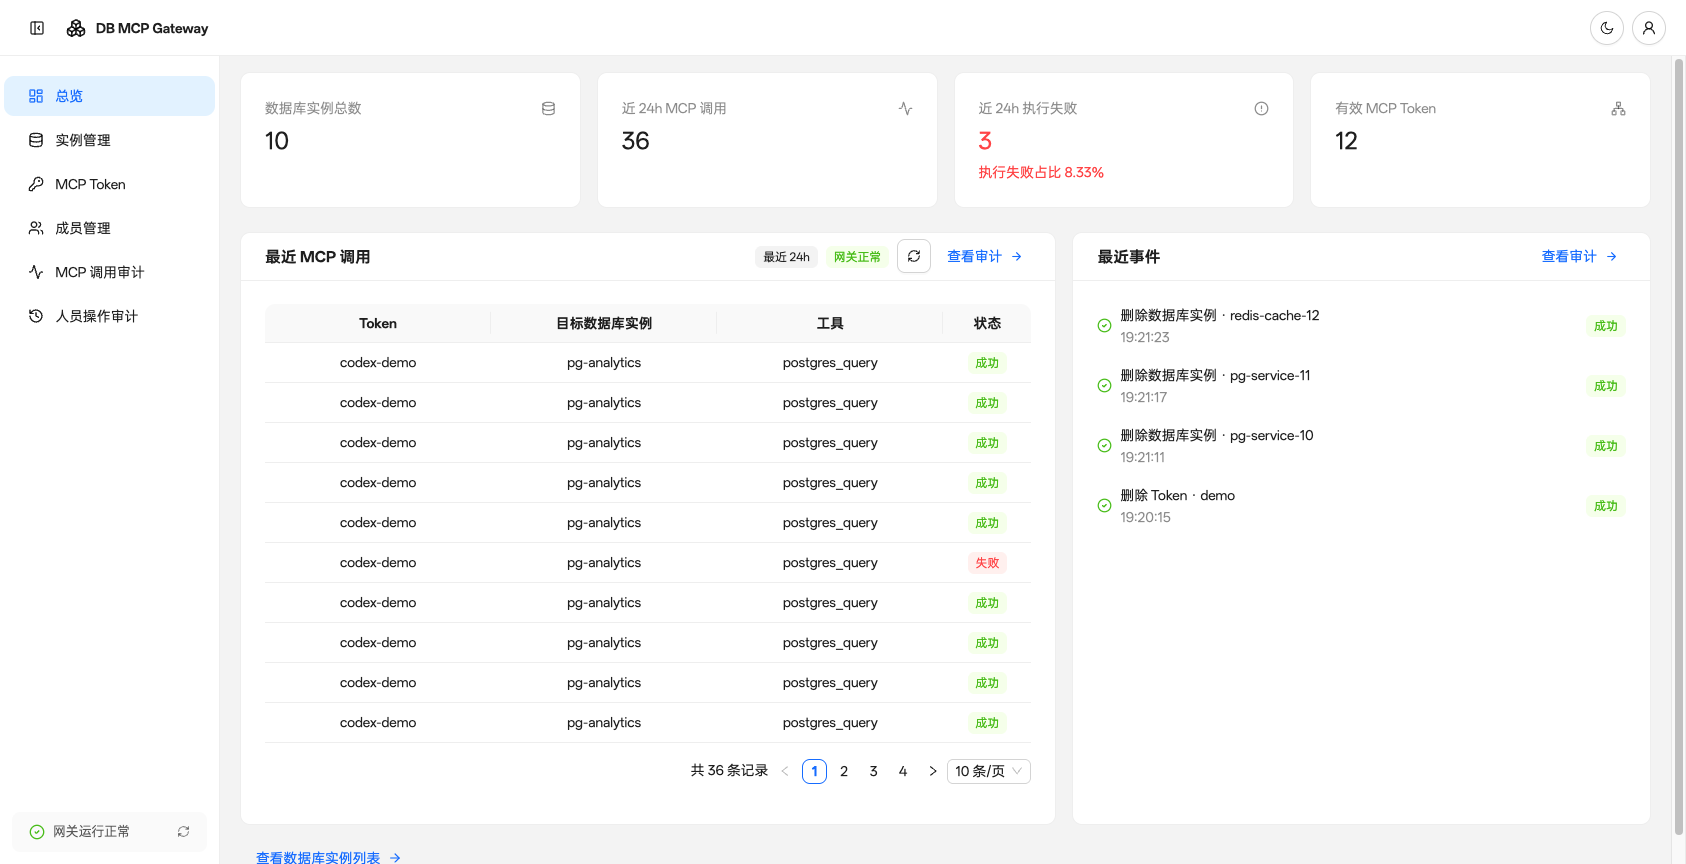
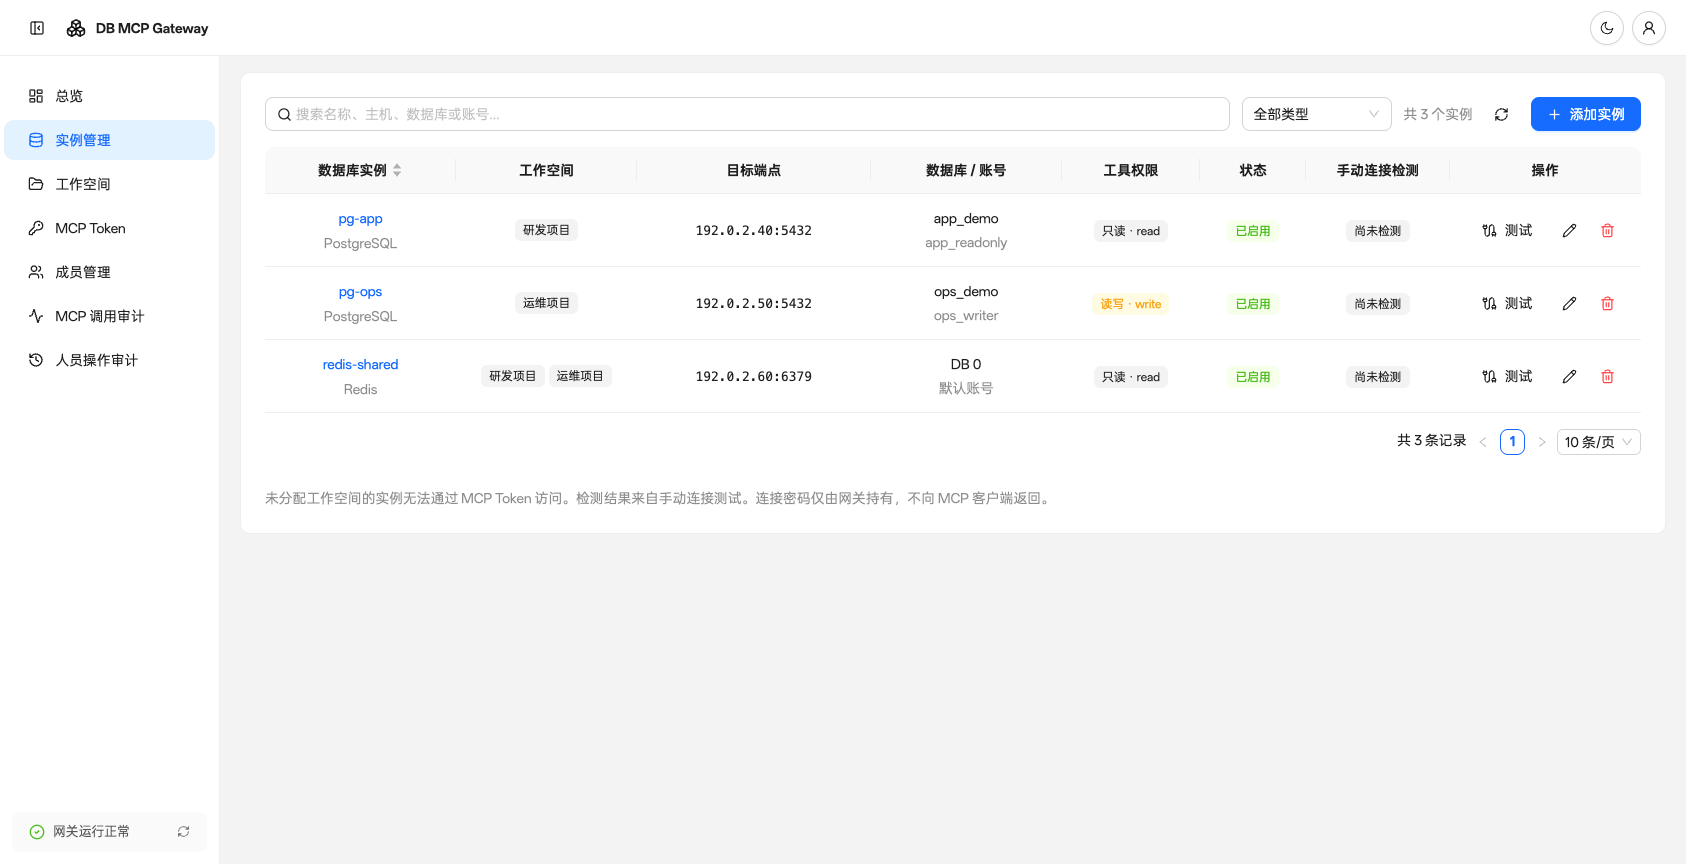
docs: 更新中英文 README、当前功能与演示截图
以 dev 源码为入口，补全工作空间授权、Token 复制与到期、成员和双审计说明。
替换旧界面截图，更新初始化、源码构建 Docker 及密钥备份说明，区分既有发布镜像。

验证：文档链接、示例语法、中英文命令、工具数量与桌面渲染检查通过。

diff --git a/README.en.md b/README.en.md
@@ -4,38 +4,109 @@
 
 **Connect AI to your databases, with a clear trail for every operation.**
 
-[![Docker Hub](https://img.shields.io/badge/Docker_Hub-2.1.0-146ED0?logo=docker&logoColor=white)](https://hub.docker.com/r/lijx559/db-mcp)
+[![Docker Hub](https://img.shields.io/badge/Docker_Hub-published_2.1.0-146ED0?logo=docker&logoColor=white)](https://hub.docker.com/r/lijx559/db-mcp)
 [![Platforms](https://img.shields.io/badge/platforms-amd64%20%7C%20arm64-4B5FC4)](docs/releases/2026-10-30-dockerhub.md)
 [![FastMCP](https://img.shields.io/badge/FastMCP-4.1.4-17242B)](https://gofastmcp.com)
 
 [简体中文](README.md) · **English**
 
-[Features](#features) · [Docker Compose](#deploy) · [MCP setup](#connect) · [Operations](#operations)
+[Features](#features) · [Quick start](#quickstart) · [Docker](#deploy) · [MCP setup](#connect) · [Operations](#operations)
 
 </div>
 
-A self-hosted MCP gateway for PostgreSQL and Redis. Centralize connections and credentials, enforce per-instance read/write boundaries, and review management actions alongside database calls.
+A self-hosted MCP gateway for PostgreSQL and Redis. Manage connections centrally, scope client access by workspace, preserve per-instance read/write safeguards, and trace management actions and database calls in one console.
 
-![DB MCP workspace preview](docs/images/workspace.png)
+> This README and its screenshots describe the current **`dev` branch**. A new installation starts with **`admin / admin`**. Docker Hub tag `2.1.0` is an earlier release; run or build the `dev` source for the workspace, Token, and UI changes shown here. These changes have not been released as a new image.
 
-<sub>Screenshot from an isolated demo environment. No production resources or credentials are shown. The UI labels in this preview are in Chinese.</sub>
+![DB MCP instances: workspace assignments, endpoints, and read/write permissions](docs/images/workspace.png)
+
+<sub>Captured from the current build on 2026-11-17. Resources, members, and audit history are isolated demo data, with no production data or credentials. The console UI is in Chinese.</sub>
 
 <a id="features"></a>
 
 ## Features
 
-| Capability | What you can do |
+| Capability | Current behavior |
 |---|---|
-| Multiple instances | Manage PostgreSQL and Redis, test connectivity, and apply configuration updates without a restart. |
-| Data operations | 31 MCP tools for SQL, schema inspection, and common Redis data types. |
-| Read/write boundaries | Instances default to read-only; PostgreSQL combines tool permissions, SQL checks, and read-only transactions. |
-| Explicit confirmation | High-risk DDL requires `confirm=true`. |
-| Separate identity and audit | Independent web accounts and MCP tokens, actual database target snapshots, and 30-day audit retention. |
-| Unified workspace | Ant Design 6, OPPO Sans, light/dark themes, a collapsible sidebar, and shared table pagination. |
+| Resources | Manage PostgreSQL / Redis connections, manual connection tests, and live configuration changes. |
+| Workspace access | Assign a resource to multiple projects. Each Token belongs to exactly one workspace and can discover and operate only on its currently assigned resources. |
+| MCP tools | 31 tools: 2 instance tools, 6 PostgreSQL tools, and 23 Redis tools. |
+| Database safeguards | Read-only by default, with SQL checks, read-only transactions, and explicit confirmation for high-risk DDL. |
+| Token lifecycle | Create, enable, disable, and confirm deletion. Newly issued Tokens support repeat copying plus Claude Code JSON and Codex TOML connection examples. |
+| Token expiry | No expiry by default. Set, change, or clear an expiry; expired Tokens reject subsequent calls while preserving identity and history. |
+| Members and sessions | Start with admin/admin; ordinary passwords require 6–1024 characters. Enabled members have equal access, the last enabled member is protected, and password changes or disabling/deletion revoke sessions. |
+| Two audit trails | Trace management actions and MCP calls by credential, workspace, and actual target. Filters, details, CSV export, and 30-day default retention. |
+| Desktop console | Ant Design 6, OPPO Sans 4.0, light/dark themes, a collapsible sidebar, and consistent pagination. |
+
+<details>
+<summary>Token copying, controls, and expiry states</summary>
+
+![DB MCP · Token copying, controls, and expiry states](docs/images/tokens.png)
+
+</details>
+
+<details>
+<summary>MCP call audit in the dark theme</summary>
+
+![DB MCP · MCP call audit in the dark theme](docs/images/audit.png)
+
+</details>
+
+<a id="quickstart"></a>
+
+## Quick start: current dev source
+
+Requires Python 3.10+ and uv. Built web assets are committed, so starting the service does not require Node.js.
+
+```bash
+git clone --branch dev https://github.com/Lixiuxiu559/db-mcp.git
+cd db-mcp
+uv sync --locked
+uv run --locked db-mcp --init --config ./runtime/config.yaml
+uv run --locked db-mcp --config ./runtime/config.yaml
+```
+
+CLI options include `--host`, `--port`, `--config`, and `--data-dir`. The latter resolves against the working directory and overrides data paths without moving existing data.
+
+Open **http://127.0.0.1:8807/** and complete the following steps:
+
+1. Sign in with **`admin / admin`** and change the password from the account menu if desired. Ordinary password creation, changes, and resets require **6–1024 characters**; the installation default is the only exception.
+2. Create a project in Workspaces.
+3. Add resources in Instances and assign one or more workspaces. Choose read-only or read/write access per instance. Database account privileges continue to apply.
+4. Create a client credential in MCP Token, selecting exactly one workspace. Leave expiry empty for no expiry.
+5. Copy the Token from the list or open its connection settings, select Claude Code / Codex, and use the client to discover accessible resources.
+
+The default account is created only when the identity database has no users. Existing users prevent creation or resets. Routine restarts and upgrades preserve users, workspaces, valid Tokens, and expiry settings. Unassigned resources are inaccessible to MCP clients.
+
+### Build Docker from the current source
+
+Run in the source directory above. This uses a separate local image name; `runtime/` holds all persistent data:
+
+```bash
+mkdir -p runtime
+umask 077
+cat > .env <<EOF
+COMPOSE_PROJECT_NAME=db-mcp
+DOCKER_UID=$(id -u)
+DOCKER_GID=$(id -g)
+DBMCP_IMAGE=db-mcp:dev
+DBMCP_BIND_ADDRESS=127.0.0.1
+DBMCP_PORT=8807
+TZ=Asia/Shanghai
+EOF
+docker compose -f docker-compose.yml -f docker-compose.build.yml build
+docker compose -f docker-compose.yml -f docker-compose.build.yml run --rm db-mcp db-mcp --init --config /data/config.yaml
+docker compose -f docker-compose.yml -f docker-compose.build.yml up -d
+curl -fsS http://127.0.0.1:8807/healthz
+```
+
+`--init` never overwrites an existing configuration; skip it for an existing runtime directory. Stop a source process before starting a container on the same port. When deploying as root, set a dedicated non-root UID/GID in `.env` and give it read/write ownership of `runtime/`.
 
 <a id="deploy"></a>
 
-## Deploy with Docker Compose
+## Docker Compose: existing published image
+
+This no-checkout option uses the existing `2.1.0` image. Its UI, account setup, and Token behavior follow its [release record](docs/releases/2026-10-30-dockerhub.md) and the image itself. Use the `dev` source or source-built image above for the current functionality shown here.
 
 Requires Docker Engine (or Docker Desktop) and Docker Compose v2. No source checkout is needed; the image includes the complete web console. The deployment host must be able to reach your databases.
 
@@ -94,19 +165,9 @@ curl -fsS http://127.0.0.1:8807/healthz
 
 Run `--init` only for the first deployment: it creates an empty configuration and never overwrites an existing file. Skip initialization when upgrading. Once health returns `{"ok":true}`, open **http://127.0.0.1:8807/**.
 
-### 4. Sign in with the installation defaults
+### 4. Complete setup for that image version
 
-The current source and images built from it automatically create username **`admin`** and password **`admin`** on the first installation startup when the identity database has no users. No setup code is required. Source, Docker/Compose, installed packages, and uvx share this rule. The versioned images above require a separate release to include this change.
-
-You can change the password from the account menu after signing in. Creating, changing, or resetting a password requires **6–1024 characters**; the installation default is the only length exception. Existing users prevent default-account creation or password resets. Restarts and upgrades preserve existing accounts, passwords, and valid MCP tokens.
-
-Add a PostgreSQL or Redis instance, choose read-only or read/write access, and test the connection. Then create a client-specific token in MCP Token. The container must be able to reach the database; database account privileges still apply.
-
-### Workspaces in the current source
-
-The workspace feature is included in the current source and local web build. Use the current source or a locally built image for this feature. The versioned images in the quick start above require a separate release to include these changes.
-
-Create a project in Workspaces, add each database instance, and select one or more workspaces for it. Creating a client token requires exactly one workspace. The client can only list and operate on resources assigned to that workspace. Choose read-only or read/write access for each instance. The container must reach the target database, and database account privileges still apply.
+Follow the first-account setup instructions in the pinned image's console and startup logs. The `admin / admin` installation default described above belongs to the current `dev` implementation and does not imply that the existing image was updated. Then configure resources and create a client-specific MCP Token.
 
 ### Compose configuration
 
@@ -129,7 +190,7 @@ Inside a container, `127.0.0.1` refers to that container. For resources on the h
 
 ## Connect an MCP client
 
-Create and save a token in the console, then add a configuration to an HTTP-capable MCP client:
+Create an MCP Token for the target workspace. Copy it again from the list or open its connection settings for Claude Code JSON / Codex TOML. These examples assume a local client:
 
 Claude Code uses the project's `.mcp.json` file.
 
@@ -164,14 +225,16 @@ This example assumes the client and gateway run on the same machine. Remote clie
 | `redis_get` / `redis_scan` / `redis_type`, etc. | Read string/hash/list/set/zset data, scan keys, and inspect metadata. |
 | `redis_set` / `redis_del` / `redis_expire`, etc. | Write, delete, update collections, and manage expiry on write-enabled instances. |
 
-Each instance uses `permissions: read` or `write`, defaulting to `read`. Only one SQL statement is accepted per call. High-risk `DROP`/`TRUNCATE`/`ALTER` requires `confirm=true`. Defaults cap results at 1,000 rows and 50,000 characters; prefer `redis_scan` for large datasets. Lexical SQL checks cannot infer arbitrary stored-procedure behavior; database read-only transactions provide the final guard. Connection retries cannot guarantee exactly-once writes.
+Each instance uses `permissions: read` or `write`, defaulting to `read`. Only one SQL statement is accepted per call. High-risk `DROP`/`TRUNCATE`/`ALTER` requires `confirm=true`. Defaults cap results at 1,000 rows and 50,000 characters; prefer `redis_scan` for large datasets. `COUNT` is a scan hint: a page may be empty, so keep using the returned cursor until it is `0`. Lexical SQL checks cannot infer arbitrary stored-procedure behavior; database read-only transactions provide the final guard. Connection retries cannot guarantee exactly-once writes.
 
 ## People, credentials, and audit
 
 - Web access uses username/password, HttpOnly session cookies, and CSRF protection. All enabled users have equal management access.
 - The console manages all workspaces and resources. Each database instance is created once and can belong to multiple workspaces. Unassigned resources are inaccessible to MCP tokens. A token belongs to exactly one workspace, fixed at creation. Removing a resource assignment blocks subsequent calls from that workspace, including established MCP sessions.
 - A workspace with assigned resources or undeleted tokens, including disabled tokens, cannot be deleted. Changes to shared connection settings affect every workspace using the resource.
-- MCP tokens are separate from users. The current source supports copying newly issued tokens from the list and generating Claude Code or Codex connection settings. Tokens are stored as verification hashes plus encrypted copies; ordinary list responses expose metadata only. Older hash-only tokens cannot be recovered and must be recreated to enable copying. Tokens authorize `/mcp`, not web login.
+- MCP tokens are separate from users. Newly issued Tokens support copying from the list and generating Claude Code or Codex connection settings. Tokens are stored as verification hashes plus encrypted copies; ordinary list responses expose metadata only. Older hash-only tokens cannot be recovered and must be recreated to enable copying. Tokens authorize `/mcp`, not web login.
+- Token creation and editing support an optional expiry in the browser time zone. Leave it empty for no expiry, or explicitly clear an existing limit. Expired Tokens reject subsequent MCP requests and calls, including new attempts after connection waits and retries. Staff may still copy or adjust the expiry; copying never restores access. Restarts preserve the limit, and deleted Tokens cannot be revived.
+- Usernames, display names, and Token names allow up to 128 Unicode characters; Token descriptions allow up to 1000. Sign-in and editing share these limits.
 - Restarts, upgrades, and container replacement preserve valid tokens. Creating a token, disabling its creator, or deleting its creator does not revoke other tokens. Password changes, disabling, and deletion revoke that user's web sessions. Member switches save immediately; deletion requires confirmation and at least one enabled member must remain. With another enabled member present, you can disable or delete your own account and will be signed out.
 - Token switches directly enable or disable access. Confirmed deletion permanently invalidates the credential and removes it from the management list while retaining its tombstone and audit history.
 - Management audit records logins and configuration changes. MCP audit records token identity, actual instance type/host/port/database/account and SQL or Redis operation, outcome, and duration. Retention defaults to 30 days, with filters, details, and CSV export.
@@ -202,7 +265,7 @@ docker compose down
 
 ### Back up and update
 
-Stop the service before backing up the full directory, including SQLite WAL/SHM files and `data/service.token.key`, or use a reliable SQLite online backup procedure and preserve the matching encryption key. A missing or damaged key blocks copying and new token issuance without changing existing hash authentication.
+Stop the service before backing up the full directory, including SQLite WAL/SHM files and `data/service.token.key`, or use a reliable SQLite online backup procedure and preserve the matching encryption key. A missing or damaged key blocks copying and new token issuance without changing existing hash authentication. On restoration, the service tightens key-file permissions to `0600`; preserve a regular file and correct ownership.
 
 ```bash
 mkdir -p backups
@@ -210,6 +273,8 @@ docker compose stop
 (umask 077; tar -czf "backups/runtime-$(date +%Y%m%d-%H%M%S).tar.gz" runtime .env docker-compose.yml)
 docker compose start
 ```
+
+For a source-built `dev` image, update the source and repeat the earlier `build` and `up -d` steps, preserving `.env` and `runtime/`. The pull commands below apply to published images.
 
 Set `DBMCP_IMAGE` in `.env` to the new published version, then run:
 
@@ -244,26 +309,11 @@ Set `auth.cookie_secure: true` and `auth.cookie_path: /db-mcp/` in `runtime/conf
 | Remote browsers cannot open the console | Default binding is local; use HTTPS proxying, an SSH tunnel, or an explicit network binding. |
 | Web login works but MCP authentication fails | Web accounts and MCP tokens are separate; create a token in the MCP Token page. |
 | Resources are unreachable from the container | Check networking, target addresses, and firewalls; avoid accidentally targeting the container's own loopback. |
-| How to sign in after installation | Current source creates `admin / admin` on first startup if no users exist; existing installations keep their credentials. |
+| How to sign in after installation | Current dev uses `admin / admin` if no users exist. Existing users retain their credentials; older images follow their own setup instructions. |
 
 ## Other installation options
 
-All three distribution methods include the HTTP MCP service and web console.
-
-<details>
-<summary>Source + uv</summary>
-
-Requires Python 3.10+ and uv. Full dependency compatibility follows the lockfile and verified runtime.
-
-```bash
-uv sync --locked
-uv run --locked db-mcp --init --config ./runtime/config.yaml
-uv run --locked db-mcp --config ./runtime/config.yaml
-```
-
-CLI options include `--host`, `--port`, `--config`, and `--data-dir`. The latter resolves relative to the working directory and overrides paths without moving existing data.
-
-</details>
+Source, Docker, and Python packages share the full HTTP MCP service and console. The following builds a local package from the current source.
 
 <details>
 <summary>Python package / uvx</summary>
@@ -284,6 +334,8 @@ wheel/sdist includes default configuration and web assets. Local wheels can also
 
 The console uses **Ant Design 6**, OPPO Sans 4.0, native light/dark themes, a 56px header, and a 220px/64px collapsible sidebar. Top-level pages show content without repeating menu titles. All table headers and cells are centered, do not stick by default, and share 10/20/50 pagination with a default of 10. The theme defaults to light and is switched only in the header. Components, original font and license, dependencies, and static assets are held within this service. See the [development guide](CLAUDE.md) for layout, interaction, and validation rules. Local source and build migration does not update published images.
 
+Font files and the original license are bundled with the service; see the [OPPO Sans Fonts License Agreement](webui/public/assets/fonts/OPPO-Sans-LICENSE.txt).
+
 ```bash
 uv sync --locked
 uv run --locked pytest
@@ -302,8 +354,3 @@ docker compose -f docker-compose.yml -f docker-compose.build.yml up -d --build
 [Development guide](CLAUDE.md) · [Published digests](docs/releases/2026-10-30-dockerhub.md) · [Report an issue](https://github.com/Lixiuxiu559/db-mcp/issues)
 
 This service is independently developed, released, and deployed. It shares conventions with the [MCP workspace](https://github.com/Lixiuxiu559/mcp) and has no runtime dependency on a parent directory or another MCP repository.
-
-### Credential expiry and field limits in the current source
-
-- In the current source, Token creation and editing support an optional expiry time in the browser time zone. Leave it empty for no expiry. Expired tokens reject new MCP requests and calls; staff may still copy or explicitly adjust the expiry. Copying never restores access. Restarting preserves the expiry, and deleted tokens cannot be revived.
-- Usernames, display names, and Token names allow up to 128 Unicode characters; Token descriptions allow up to 1000. Sign-in and editing share these limits.
